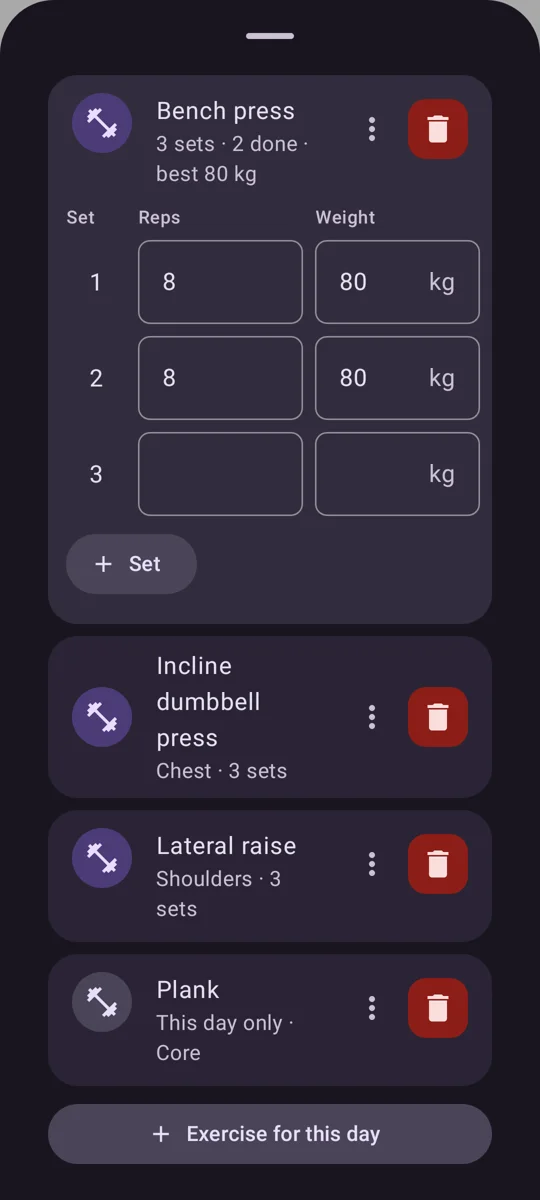
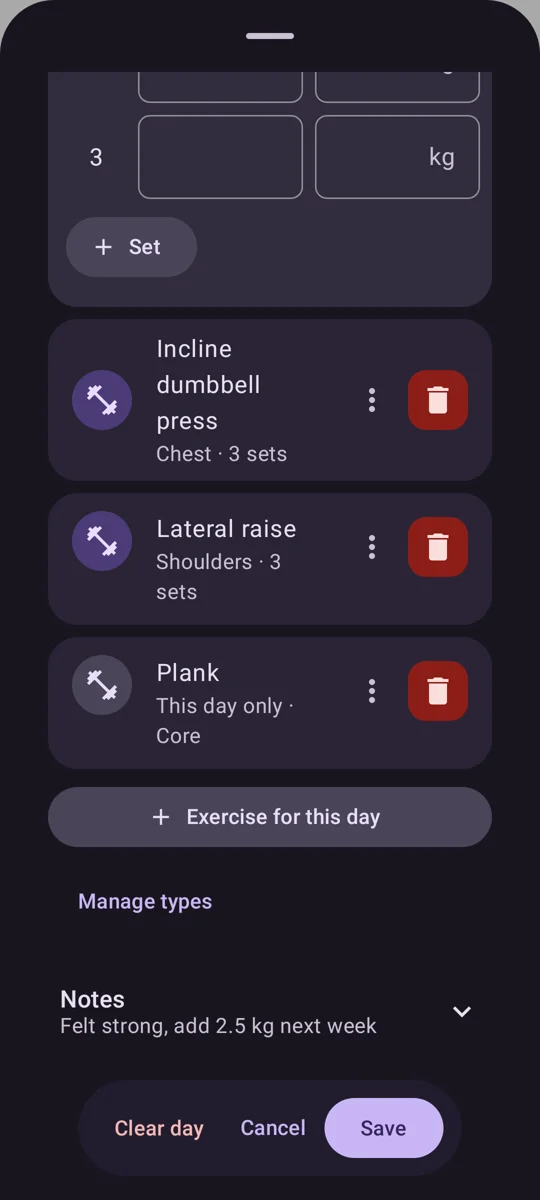
Updated for version 2.3.4: floating day toolbar, saving an empty day, refreshed day-sheet screenshots

diff --git a/help/index.html b/help/index.html
@@ -21,7 +21,7 @@
 </head>
 <body>
   <h1>How to use Liftloq</h1>
-  <p class="meta">Local workout calendar · No account required · Dark theme only · Updated for version 2.3.3</p>
+  <p class="meta">Local workout calendar · No account required · Dark theme only · Updated for version 2.3.4</p>
 
   <p>Liftloq keeps your workout plan on your device. Mark days on the calendar, manage workout types, plan and time HYROX workouts, and optionally track supplement spending — without signing in.</p>
 
@@ -30,7 +30,8 @@
     <li>Open <strong>Calendar</strong> (home).</li>
     <li>Tap a day (or the add button). The day sheet has collapsible <strong>Bodybuilding</strong>, <strong>HYROX workouts</strong> and <strong>Notes</strong> sections.</li>
     <li>Pick up to <strong>three</strong> entries in total (Bodybuilding types and HYROX workouts combined). At 3, the other picks are disabled until you deselect one. HYROX rows have a checkbox: a picked row says <strong>Tap to unselect</strong>; tap it again to remove it.</li>
-    <li>Tap <strong>Save</strong>. Nothing is stored until you save.</li>
+    <li>Tap <strong>Save</strong>. Nothing is stored until you save. <strong>Clear day</strong>, <strong>Cancel</strong> and <strong>Save</strong> float in a bar at the bottom of the sheet; everything scrolls up clear above it, Notes included (also with the keyboard open).</li>
+    <li><strong>Save an empty day:</strong> to remove a workout, unmark it (tap its chip, or a HYROX row’s checkbox) and tap <strong>Save</strong>. Save works even when the day ends up with nothing selected; the day’s workouts are cleared and its note stays unless you clear the note too. On a new day with nothing picked, Save stays off. <strong>Clear day</strong> removes everything at once, note included.</li>
     <li>The day shows one colour band per entry: Bodybuilding first, then HYROX.</li>
   </ol>
 
@@ -39,8 +40,12 @@
     <figcaption>Calendar: tap a day to open it. Each day shows up to 3 colour bands; names appear with 1–2 entries.</figcaption>
   </figure>
   <figure>
-    <img src="images/help-day-sheet.webp" alt="Day sheet with HYROX checkboxes" loading="lazy" width="540" height="1200" />
-    <figcaption>Day sheet: HYROX workouts with checkboxes; the picked one shows <strong>Tap to unselect</strong>. At 3 of 3 picked, the rest is disabled.</figcaption>
+    <img src="images/help-day-sheet.webp" alt="Day sheet with Bodybuilding, HYROX workouts and Notes sections and a floating bar with Clear day, Cancel and Save" loading="lazy" width="540" height="1200" />
+    <figcaption>Day sheet: Bodybuilding, HYROX workouts and Notes; at 3 of 3 picked, the rest is disabled. Clear day, Cancel and Save float at the bottom.</figcaption>
+  </figure>
+  <figure>
+    <img src="images/help-day-empty-save.webp" alt="Day sheet with no workout selected and Save enabled" loading="lazy" width="540" height="1200" />
+    <figcaption>Push unmarked: <strong>None selected</strong>, and Save clears the day’s workout.</figcaption>
   </figure>
   <h2>2. Add and remove Bodybuilding types</h2>
   <ol class="steps">
@@ -63,7 +68,7 @@
     <li>Doing something extra today? Tap <strong>+ Exercise for this day</strong>. It is marked <strong>This day only</strong> and does not change the type.</li>
     <li>Tap <strong>Save</strong> on the day sheet to keep the day and its sets. If you change a type’s exercises later, days you already logged stay as they were.</li>
     <li>Missing an exercise? At the bottom of the list, tap <strong>+ Custom exercise</strong>, enter a name, choose the muscle group and tap <strong>Save</strong>. It is listed in its group from then on.</li>
-    <li>Logs from version 2.3.0 are kept as <strong>This day only</strong> exercises, and each type starts with the exercises of its most recent logged day. Switching back to Simple only hides all of this; nothing is deleted. <strong>Clear day</strong> in Advanced mode also clears that day’s exercises.</li>
+    <li>Logs from version 2.3.0 are kept as <strong>This day only</strong> exercises, and each type starts with the exercises of its most recent logged day. Switching back to Simple only hides all of this; nothing is deleted. Unmarking a type on a day and saving removes that type’s exercises from the day (<strong>This day only</strong> exercises stay). <strong>Clear day</strong> in Advanced mode also clears that day’s exercises.</li>
   </ol>
 
   <figure>
@@ -84,7 +89,7 @@
   </figure>
   <figure>
     <img src="images/help-bb-day-extra.webp" alt="Day sheet with the type’s exercises and an extra Plank marked This day only, and the Exercise for this day button" loading="lazy" width="540" height="1200" />
-    <figcaption><strong>+ Exercise for this day</strong> adds an extra marked <strong>This day only</strong>.</figcaption>
+    <figcaption><strong>+ Exercise for this day</strong> adds an extra marked <strong>This day only</strong>. The sheet scrolls clear above the Clear day / Cancel / Save bar.</figcaption>
   </figure>
   <figure>
     <img src="images/help-bb-picker.webp" alt="Add exercise list grouped by muscle with sticky group headers; every exercise has the dumbbell icon" loading="lazy" width="540" height="1200" />
